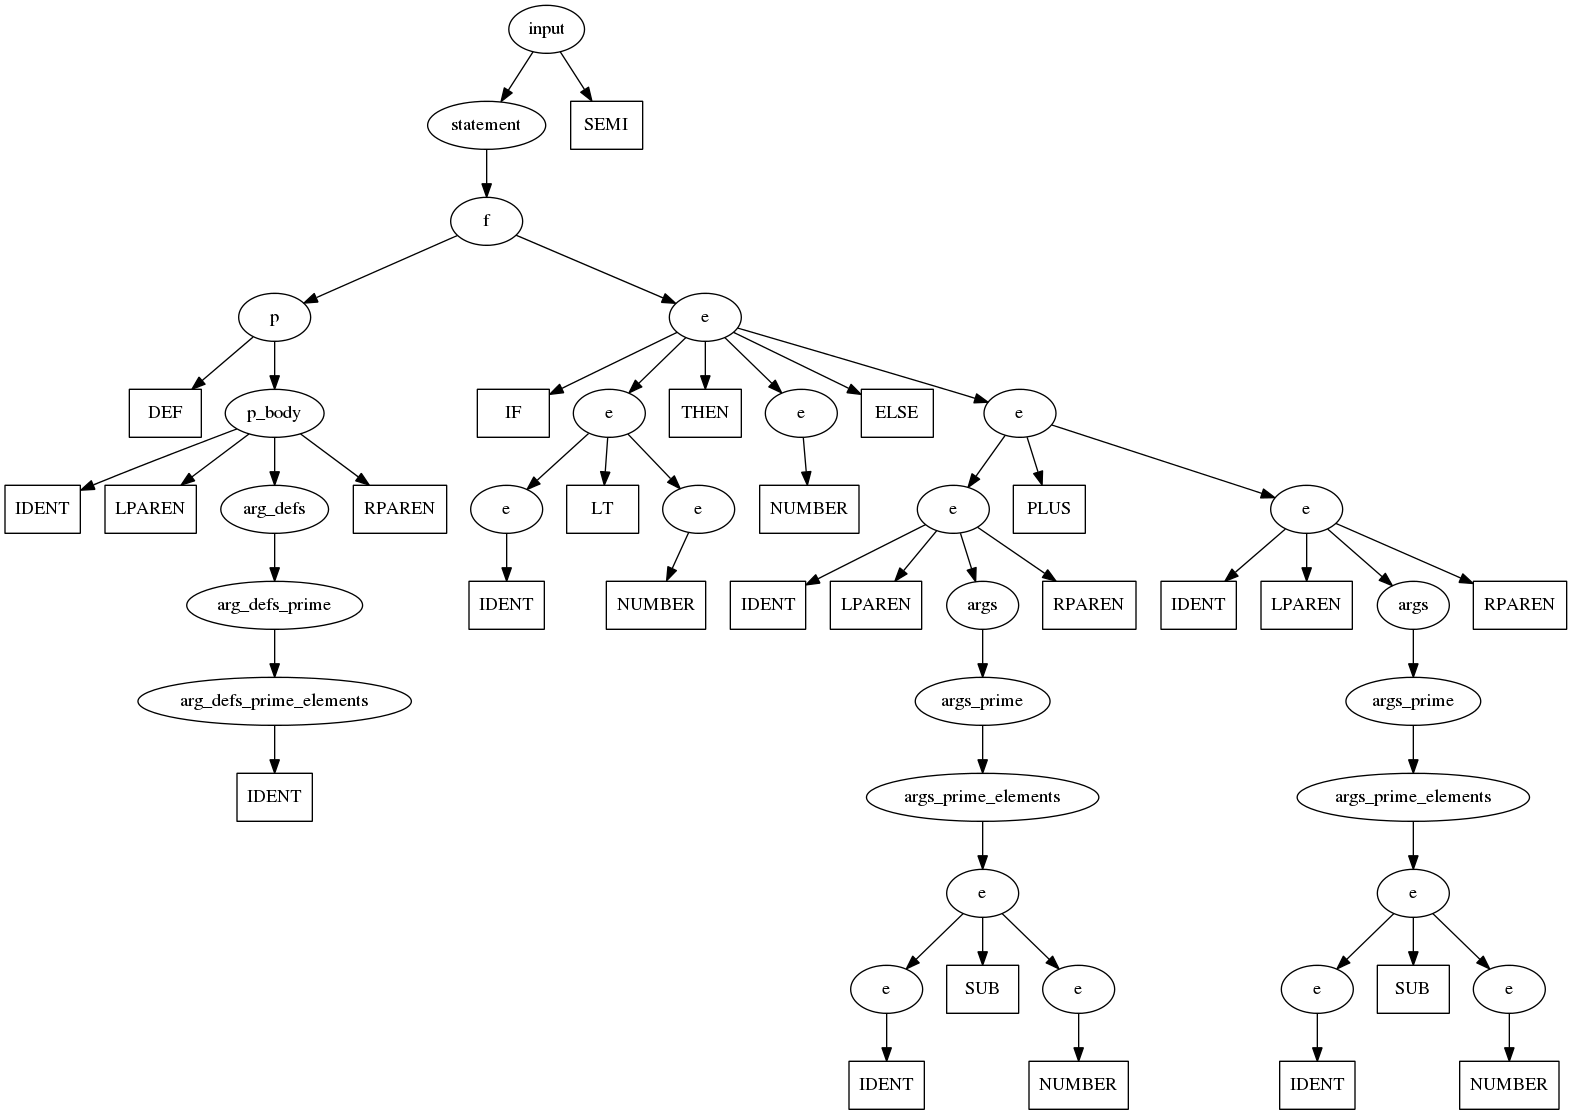
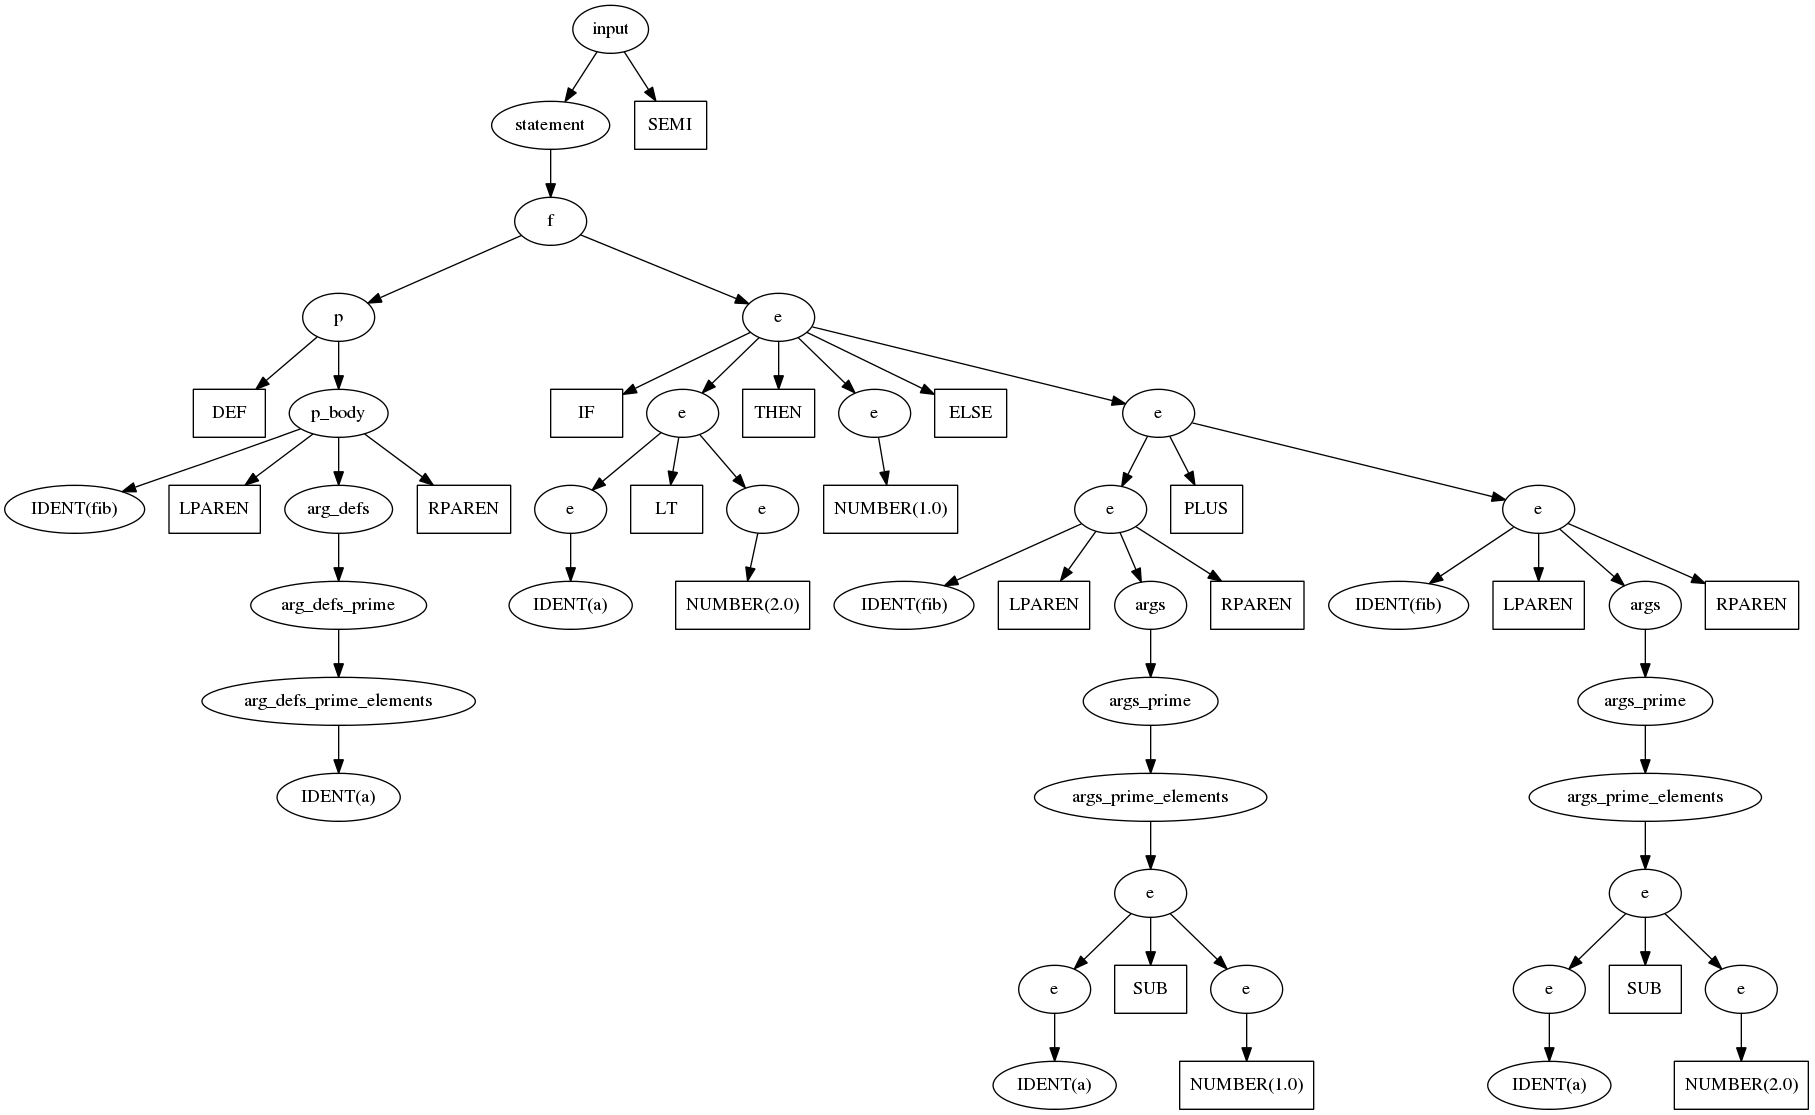
Modified the parse-tree printing code to print out terminal values when they are present.

diff --git a/lib/rltk/parser.rb b/lib/rltk/parser.rb
@@ -822,9 +822,7 @@ module RLTK # :nodoc:
 				tokens.each do |token|
 					# Check to make sure this token was seen in the
 					# grammar definition.
-					if not @symbols.include?(token.type)
-						raise BadToken
-					end
+					raise BadToken if not @symbols.include?(token.type)
 					
 					v.puts("Current token: #{token.type}#{if token.value then "(#{token.value})" end}") if v
 					
@@ -1315,7 +1313,7 @@ module RLTK # :nodoc:
 				@state_stack	<< state
 				@output_stack	<< o
 				@node_stack	<< @labels.length
-				@labels		<< node0
+				@labels		<< if CFG::is_terminal?(node0) and o then node0.to_s + "(#{o})" else node0 end
 				@positions	<< position
 				
 				if CFG::is_nonterminal?(node0)
